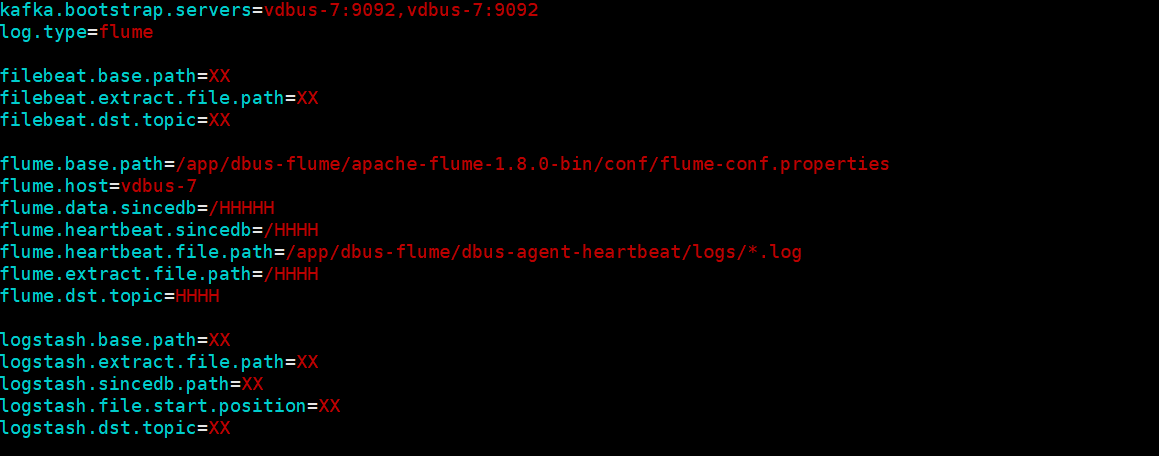
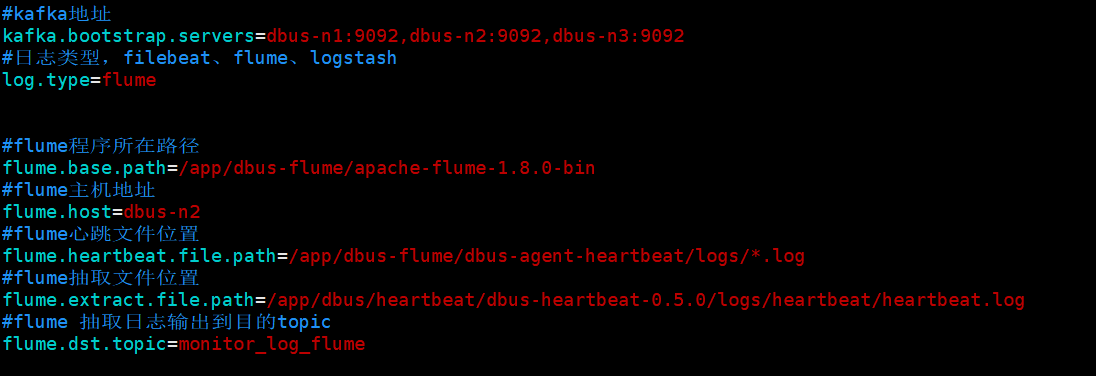
dbus-log docs

Changed region(s): [[0.0, 0.3218, 0.9617, 0.9654], [0.0, 0.0, 0.6204, 0.2926]]

diff --git a/docs/install-logstash-source.md b/docs/install-logstash-source.md
@@ -1,5 +1,5 @@
 ---
-layout: global
+monitolayout: global
 title: logstash作为数据源接入DBus
 description: Dbus 安装Logstash源 DBUS_VERSION_SHORT
 ---
@@ -10,19 +10,15 @@ description: Dbus 安装Logstash源 DBUS_VERSION_SHORT
 
 **总体说明：**
 
-	DBus可以接入三种数据源：logstash、flume、filebeat，下面以使用logstash为数据抽取端，抽取DBus自身产生的监控和报警日志数据。DBus监控和报警模块部署在 dbus-n2和dbus-n3 上，路径为：/app/dbus/dbus-heartbeat-0.4.0/logs/heartbeat/heartbeat.log。因此，logstash的日志数据抽取端也要部署在dbus-n2和dbus-n3 上。
+	DBus可以接入三种数据源：logstash、flume、filebeat，下面以使用filebeat为数据抽取端，抽取DBus自身产生的监控和报警日志数据为例进行说明。
 
-	我们在dbus-n2，dbus-n3两台机器上分别部署了logstash程序，用于对普通日志进行抽取，两台机器上的logstash程序配置完全一致。心跳数据由logstash自带的心跳插件产生（心跳数据的作用是便于DBus对数据进行统计和输出），logstash程序抽取到kafka topic中的数据中既有普通格式的数据，同时也有心跳数据，而且这两种格式的数据分别来自不同的主机。
+	DBus监控和报警模块部署在 dbus-n2和dbus-n3 上，路径为：/app/dbus/heartbeat/dbus-heartbeat-0.5.0/logs/heartbeat/heartbeat.log。因此，filebeat的日志数据抽取端也要部署在dbus-n2和dbus-n3 上。
 
-|  No  |   域名    | 是否有监控和报警日志？ | 是否部署logstash？ | 是否部署心跳shell脚本？ |        抽取日志        |        输出topic         |
-| :--: | :-----: | :---------: | :-----------: | :------------: | :----------------: | :--------------------: |
-|  1   | dbus-n1 |      否      |       否       |       否        |         无          |           无            |
-|  2   | dbus-n2 |      是      |       是       |       否        | 1.DBus自身产生的监控和报警日志 | heartbeat_log_logstash |
-|  3   | dbus-n3 |      是      |       是       |       否        | 1.DBus自身产生的监控和报警日志 | heartbeat_log_logstash |
-
-
-
-
+|  No  |   域名    | 是否有监控和报警日志？ | 是否部署logstash？ | 是否部署心跳shell脚本？ |        抽取日志        |       输出topic        |
+| :--: | :-----: | :---------: | :-----------: | :------------: | :----------------: | :------------------: |
+|  1   | dbus-n1 |      否      |       否       |       否        |         无          |          无           |
+|  2   | dbus-n2 |      是      |       是       |       否        | 1.DBus自身产生的监控和报警日志 | monitor_log_logstash |
+|  3   | dbus-n3 |      是      |       是       |       否        | 1.DBus自身产生的监控和报警日志 | monitor_log_logstash |
 
 **主要配置步骤：**
 
@@ -43,6 +39,8 @@ description: Dbus 安装Logstash源 DBUS_VERSION_SHORT
 
 * **dbus-logstash下载**
 
+   包名称：dbus-logstash.tar.gz
+
    https://pan.baidu.com/s/1b1aKueXLvO2GigB5fa4kNw
 
   **dbus-logstash目录说明**
@@ -53,35 +51,21 @@ description: Dbus 安装Logstash源 DBUS_VERSION_SHORT
 
 ![filebeat目录](img/install-logstash-source/install-logstash-source-dir-info.png)
 
-   **logstash目录 :**logstash程序文件夹，用户可手动更改logstash配置文件，也可以使用dbus的检测和部署脚本（即log-auto-check-0.5.0文件夹）
+   **logstash目录 :**logstash程序文件夹，用户可手动更改logstash配置文件，也可以使用dbus的检测和部署脚本（即checkDeploy.sh脚本）来自动替换配置项
+
+   **checkDeploy.sh :** 内部含有检测kafka连通性及自动更换logstash配置的功能
 
    **start.sh :**  启动脚本，一键启动logstash程序
 
    **stop.sh :**   停止脚本，一键停止logstash程序
 
-   **log-auto-check-0.5.0 :** 内部含有检测kafka连通性及自动更换logstash配置的功能
-
-   **readme :** 使用文档说明
-
-   **dbus-agent-heartbeat :** 放置定时心跳脚本产生的心跳日志     
-
 
 ### 1.2. dbus-logstash启动
 
 1. 修改通用配置：
-   修改log-auto-check-0.5.0/conf目录下的log-conf.properties文件，对于logstash，只需要修改kafka地址、日志类型及logstash相关配置即可。
+   修改conf目录下的log-conf.properties文件，对于logstash，只需要修改kafka地址、日志类型及logstash相关配置即可。
 
-   filebeat相关配置项说明：
-
-   logstash.base.path：			logstash配置文件路径
-   logstash.extract.file.path：	logstash抽取文件路径，如果是多个文件，用逗号分隔即可
-   logstash.sincedb.path：		存放logstash 文件记录位置的文件路径
-
-   logstash.file.start.position: 	logstash是从beginning，还是end位置开始读数据
-
-   logstash.dst.topic:			logstash的目的topic
-
-   ![filebeat目录](img/install-logstash-source/install-logstash-source-auto-config.png)
+   ![filebeat目录](img/install-logstash-source/install-logstash-auto-config.png)
 
 2. 自动检测部署：
 
@@ -89,13 +73,9 @@ description: Dbus 安装Logstash源 DBUS_VERSION_SHORT
    执行命令：./checkDeploy.sh
    ```
 
-   进入log-auto-check-0.5.0目录，执行checkDeploy.sh脚本，可以自动检测kafka是否正常连接，若kafka连接正常，部署脚本将会把conf目录下的修改项替换到logstash配置文件中，用户可以查看reports目录下的检测和部署报告，确认通过后，进行后续步骤。
+   执行checkDeploy.sh脚本，可以自动检测kafka是否正常连接，若kafka连接正常，部署脚本将会把conf目录下的修改项替换到logstash配置文件中，用户可以查看reports目录下的检测和部署报告，确认通过后，进行后续步骤。
 
    ![filebeat目录](img/install-filebeat-source/install-filebeat-source-check-deploy.png)
-
-   检测报告如下，如果没有检测未通过，则会显示报错信息。
-
-   ![filebeat目录](img/install-filebeat-source/install-filebeat-source-check-deploy2.png)
 
 3. 启动方式：
 
@@ -103,7 +83,7 @@ description: Dbus 安装Logstash源 DBUS_VERSION_SHORT
    执行命令：./start.sh
    ```
 
-   启动脚本，该脚本会启动logstash程序。如果没有报错，则会提示filebeat和心跳程序启动成功。如果有错误，会提示相应错误信息，请根据错误信息进行修改。
+   启动脚本，该脚本会启动logstash程序。如果没有报错，则会提示logstash启动成功。如果有错误，会提示相应错误信息，请根据错误信息进行修改。
 
 4. 停止方式：
 
@@ -117,23 +97,23 @@ description: Dbus 安装Logstash源 DBUS_VERSION_SHORT
 
 ### 1.4. logstash验证
 
-**读取kafka的topic: heartbeat_log_logstash，确认是否有数据：**
+**读取kafka的topic: monitor_log_logstash，确认是否有数据：**
 
 *  **进入kafka安装目录。**
 
 * **执行以下命令，查看数据，如果有数据，则说明logstash可以成功抽取文件：**
 
-   `bin/kafka-console-consumer.sh --zookeeper dbus-n1:2181,dbus-n2:2181,dbus-n3:2181/kafka  --topic heartbeat_log_logstash`  
+   `bin/kafka-console-consumer.sh --zookeeper dbus-n1:2181,dbus-n2:2181,dbus-n3:2181/kafka  --topic monitor_log_logstash`  
 
 * **logstash的心跳数据样例：**
 
   ```json
   {
-      "host": "dbus-n3",
-      "@version": "1",
-      "clock": 1516762833,
-      "@timestamp": "2018-01-24T03:00:33.831Z",
-      "type": "dbus-heartbeat"
+  	"host": "dbus-n2",
+  	"@version": "1",
+  	"clock": 1534490912,
+  	"@timestamp": "2018-08-17T07:28:32.412Z",
+  	"type": "dbus-heartbeat"
   }
   ```
 
@@ -141,16 +121,16 @@ description: Dbus 安装Logstash源 DBUS_VERSION_SHORT
 
   ```json
   {
-      "path": "/app/dbus/dbus-heartbeat-0.4.0/logs/heartbeat/heartbeat.log",
-      "@timestamp": "2018-01-24T02:59:39.494Z",
+      "path": "/app/dbus/dbus-heartbeat-0.5.0/logs/heartbeat/heartbeat.log",
+      "@timestamp": "2018-08-17T07:28:32.412Z",
       "level": "WARN",
       "log": "CheckHeartBeatEvent 196 - 节点:/DBus/HeartBeat/Monitor/test/dbus/db_heartbeat_monitor/0,状态:异常,报警次数:1,超时次数:1",
       "@version": "1",
       "host": "dbus-n3",
       "thread": "check-heartbeat-event",
-      "message": "[check-heartbeat-event] WARN : 2018/01/24 10:59:37.906 CheckHeartBeatEvent 196 - 节点:/DBus/HeartBeat/Monitor/test/dbus/db_heartbeat_monitor/0,状态:异常,报警次数:1,超时次数:1",
-      "type": "heartbeat_log_logstash",
-      "timestamp": "2018/01/24 10:59:37.906 "
+      "message": "[check-heartbeat-event] WARN : 2018/08/17 07:28:31.906 CheckHeartBeatEvent 196 - 节点:/DBus/HeartBeat/Monitor/test/dbus/db_heartbeat_monitor/0,状态:异常,报警次数:1,超时次数:1",
+      "type": "monitor_log_logstash",
+      "timestamp": "2018/08/17 07:28:31.906 "
   }
   ```
 
@@ -180,9 +160,9 @@ description: Dbus 安装Logstash源 DBUS_VERSION_SHORT
 
    ### 2.2 数据源配置修改
 
-   因为我们在dbus-n1和dbus-n2两台机器中分别配置了filebeat程序，用于对数据进行抽取，而DBus监控和报警模块会对来自这两台机器的数据流进行监控，因此，我们需要在数据源配置信息中，将多台主机的host信息填入dsPartition选项中，供dbus监控和报警模块使用，注意：如果主机的hostname是ip，请将"."转换为"_"，例如：127.0.0.1应该要转换为127_0_0_1。
+   	因为我们在dbus-n1和dbus-n2两台机器中分别配置了filebeat程序，用于对数据进行抽取，而DBus监控和报警模块会对来自这两台机器的数据流进行监控，因此，我们需要在数据源配置信息中，将多台主机的host信息填入dsPartition选项中，供dbus监控和报警模块使用，注意：如果主机的hostname是ip，请将"."转换为"_"，例如：127.0.0.1应该要转换为127_0_0_1。
 
-   - **修改数据源信息：**点击modify按钮进行修改。
+   - **修改数据源信息：** 点击modify按钮进行修改。
      ![img/install-filebeat-source/install-filebeat-source-modify-ds-1.png](img/install-filebeat-source/install-filebeat-source-modify-ds-1.png)
    - **填写host信息：**该数据源的数据可能来自于多个主机上的filebeat程序，要在dsPartition中，配置上所有主机的host信息，为DBus监控和报警模块使用。
      ![img/install-filebeat-source/install-filebeat-source-modify-ds-2.png](img/install-filebeat-source/install-filebeat-source-modify-ds-2.png)
@@ -205,7 +185,7 @@ description: Dbus 安装Logstash源 DBUS_VERSION_SHORT
 
      ![img/install-filebeat-source/install-filebeat-source-add-table-5.png](img/install-filebeat-source/install-filebeat-source-add-table-5.png)
 
-   - **拉取增量: ** 使该表的状态变为ok，点击Take Effect生效按钮，使该表生效（当后续再对该表进行规则组配置操作后，也应该对该表再执行Take Effect生效按钮，使该表能够获取到最新的规则配置）。
+   - **拉取增量: ** 使该表的状态变为ok，点击active生效按钮，使该表生效（当后续再对该表进行规则组配置操作后，也应该对该表再执行active生效按钮，使该表能够获取到最新的规则配置）。
 
      ![img/install-filebeat-source/install-filebeat-source-add-table-6.png](img/install-filebeat-source/install-filebeat-source-add-table-6.png)
 

diff --git a/docs/install-flume-source.md b/docs/install-flume-source.md
@@ -12,19 +12,19 @@ description: Dbus 安装Flume源 DBUS_VERSION_SHORT
 
 **总体说明：**
 
-	DBus可以接入三种数据源：logstash、flume、filebeat，下面以使用flume为数据抽取端，抽取DBus自身产生的监控和报警日志数据。DBus监控和报警模块部署在 dbus-n2和dbus-n3 上，路径为：/app/dbus/dbus-heartbeat-0.4.0/logs/heartbeat/heartbeat.log。因此，flume的日志数据抽取端也要部署在dbus-n2和dbus-n3 上。
+	DBus可以接入三种数据源：logstash、flume、filebeat，下面以使用flume为数据抽取端，抽取DBus自身产生的监控和报警日志数据为例进行说明。
 
-	另外与logtash不同，flume需要一个额外的产生心跳数据的shell脚本，由crontab负责执行，输出的日志路径为：/app/dbus/dbus-agent-heartbeat/logs/agent-heartbeat.log，用于监测整条链路是否正常工作。因此，产生心跳数据的shell脚本也要部署在dbus-n2和dbus-n3 上。
+	DBus监控和报警模块部署在 dbus-n2和dbus-n3 上，路径为：/app/dbus/heartbeat/dbus-heartbeat-0.5.0/logs/heartbeat/heartbeat.log。因此，filebeat的日志数据抽取端也要部署在dbus-n2和dbus-n3 上。
 
-	flume抽取程序同时监控DBus自身的监控和报警日志（路径：/app/dbus/dbus-heartbeat-0.4.0/logs/heartbeat/heartbeat.log） 和shell脚本产生的心跳数据（路径：/app/dbus/dbus-agent-heartbeat/logs/agent-heartbeat.log），这样，flume既可以抽取数据日志，也可以抽取心跳日志。
+	另外与logtash不同，flume需要一个额外的产生心跳数据的shell脚本，输出的日志在解压包的相对路径：./dbus-agent-heartbeat/logs/agent-heartbeat.log，用于监测整条链路是否正常工作。因此，产生心跳数据的shell脚本也要部署在dbus-n2和dbus-n3 上。
 
-|  No  |   域名    | 是否有监控和报警日志？ | 是否部署flume？ | 是否部署心跳shell脚本？ |                   抽取日志                   |       输出topic       |
-| :--: | :-----: | :---------: | :--------: | :------------: | :--------------------------------------: | :-----------------: |
-|  1   | dbus-n1 |      否      |     否      |       否        |                    无                     |          无          |
-|  2   | dbus-n2 |      是      |     是      |       是        | 1.DBus自身产生的监控和报警日志                                              2. shell脚本产生的心跳数据 | heartbeat_log_flume |
-|  3   | dbus-n3 |      是      |     是      |       是        | 1.DBus自身产生的监控和报警日志                                              2. shell脚本产生的心跳数据 | heartbeat_log_flume |
+	flume抽取程序同时监控DBus自身的监控和报警日志（路径：/app/dbus/heartbeat/dbus-heartbeat-0.5.0/logs/heartbeat/heartbeat.log） 和shell脚本产生的心跳数据（相对路径：./dbus-agent-heartbeat/logs/agent-heartbeat.log），这样，flume既可以抽取监控和报警日志，也可以抽取自身产生的心跳日志。
 
-
+|  No  |   域名    | 是否有监控和报警日志？ | 是否部署flume？ | 是否部署心跳shell脚本？ |                   抽取日志                   |      输出topic      |
+| :--: | :-----: | :---------: | :--------: | :------------: | :--------------------------------------: | :---------------: |
+|  1   | dbus-n1 |      否      |     否      |       否        |                    无                     |         无         |
+|  2   | dbus-n2 |      是      |     是      |       是        | 1.DBus自身产生的监控和报警日志                                              2. shell脚本产生的心跳数据 | monitor_log_flume |
+|  3   | dbus-n3 |      是      |     是      |       是        | 1.DBus自身产生的监控和报警日志                                              2. shell脚本产生的心跳数据 | monitor_log_flume |
 
 **主要配置步骤：**
 
@@ -47,6 +47,8 @@ description: Dbus 安装Flume源 DBUS_VERSION_SHORT
 
 * **dbus-flume下载**
 
+  包名称：dbus-flume.tar.gz
+
   https://pan.baidu.com/s/1b1aKueXLvO2GigB5fa4kNw
 
 - **dbus-flume目录说明**
@@ -57,39 +59,22 @@ description: Dbus 安装Flume源 DBUS_VERSION_SHORT
 
   ![filebeat目录](img/install-flume-source/install-flume-source-dir-info.png)
 
-   **flume目录 :**flume程序文件夹，用户可手动更改flume-conf.properties，也可以使用dbus的检测和部署脚本（即dbus-log-check-0.5.0文件夹）
+   **flume目录 :**flume程序文件夹，用户可手动更改flume-conf.properties，也可以使用dbus的检测和部署脚本（即checkDeploy.sh，需要先更新conf/log-conf.properties文件）
+
+   **checkDeploy.sh :** 实现了检测kafka连通性及自动更换flume配置的功能
+
+   **time_heartbeat.sh :** 定时产生心跳，并将心跳日志写入dbus-agent-heartbeat文件夹中，flume会从中抽取心跳日志
+
+   **dbus-agent-heartbeat :** 放置定时心跳脚本产生的心跳日志
 
    **start.sh :**  启动脚本，一键启动flume程序、心跳程序等
 
    **stop.sh :**   停止脚本，一键停止flume程序、心跳程序等
 
-   **time_heartbeat.sh :** 定时产生心跳，并将心跳日志写入dbus-agent-heartbeat文件夹中，flume会从中抽取心跳日志
-
-   **log-auto-check :**内部含有检测kafka连通性及自动更换flume配置的功能
-
-   **readme :** 使用文档说明
-
-   **dbus-agent-heartbeat :** 放置定时心跳脚本产生的心跳日志
-
 ### 1.4. dbus-flume启动
 
 1. 修改通用配置：
-   修改log-auto-check-0.5.0/conf目录下的log-conf.properties文件，对于flume，只需要修改kafka地址、日志类型及flume相关配置即可。
-
-   flume相关配置项说明：
-
-   flume.base.path：		flume-conf.properties文件路径
-
-   flume.host: 				运行flume的hostname
-
-   flume.data.sincedb:		存放flume记录抽取文件位置的文件路径（比如被抽取文件的inode及offset等信息）
-
-   flume.heartbeat.sincedb:	存放flume记录抽取心跳文件位置的文件路径（心跳文件的inode及offset等信息）
-
-   flume.heartbeat.file.path:	存放flume心跳文件的路径
-
-   flume.extract.file.path：flume抽取文件路径(由于flume抽取文件配置较复杂，自动配置目前仅支持单文件，对于多文件，可手动修改flume配置文件)
-   flume.dst.topic：flume抽取日志到目的topic
+   修改conf目录下的log-conf.properties文件，对于flume，只需要修改kafka地址、日志类型及flume相关配置即可。
 
    ![filebeat目录](img/install-flume-source/install-flume-source-auto-config.png)
 
@@ -99,15 +84,9 @@ description: Dbus 安装Flume源 DBUS_VERSION_SHORT
    执行命令：./checkDeploy.sh
    ```
 
-   进入log-auto-check-0.5.0目录，执行checkDeploy.sh脚本，可以自动检测kafka是否正常连接，若kafka连接正常，部署脚本将会把conf目录下的修改项替换到flume配置文件中，用户可以查看reports目录下的检测和部署报告，确认通过后，进行后续步骤。
+   执行checkDeploy.sh脚本，可以自动检测kafka是否正常连接，若kafka连接正常，部署脚本将会把conf目录下的修改项替换到flume配置文件中，用户可以查看reports目录下的检测和部署报告，确认通过后，进行后续步骤。
 
-   ![filebeat目录](img/install-filebeat-source/install-filebeat-source-check-deploy.png)
-
-      检测报告如下，如果没有检测未通过，则会显示报错信息。
-
-      ![filebeat目录](img/install-filebeat-source/install-filebeat-source-check-deploy2.png)
-
-   
+   ![filebeat目录](img/install-flume-source/install-flume-source-check-deploy.png)
 
 3. 启动方式：
 
@@ -115,10 +94,11 @@ description: Dbus 安装Flume源 DBUS_VERSION_SHORT
    执行命令：./start.sh
    ```
 
-   启动脚本，该脚本会启动filebeat程序及定时心跳程序。如果没有报错，则会提示flume和心跳程序启动成功。如果有错误，会提示相应错误信息及详细错误信息文件start_log，请根据错误信息进行修改。
+   启动脚本，该脚本会启动flume程序及定时心跳程序。如果没有报错，则会提示flume和心跳程序启动成功。如果有错误，会提示相应错误信息及详细错误信息文件startup.log，请根据错误信息进行修改。
 
 
-   ![filebeat目录](img/install-flume-source/install-flume-source-auto.config.png)
+   ![filebeat目录](img/install-flume-source/install-flume-source-start-log.png)
+
 4. 停止方式：
 
    ```
@@ -133,7 +113,7 @@ description: Dbus 安装Flume源 DBUS_VERSION_SHORT
 
 * **执行以下命令，查看数据，如果有数据，则说明flume可以成功抽取文件：**
 
-   `bin/kafka-console-consumer.sh --zookeeper dbus-n1:2181,dbus-n2:2181,dbus-n3:2181/kafka  --topic heartbeat_log_flume`  
+   `bin/kafka-console-consumer.sh --zookeeper dbus-n1:2181,dbus-n2:2181,dbus-n3:2181/kafka  --topic monitor_log_flume`  
 
 * **flume的心跳数据样例：**
 
